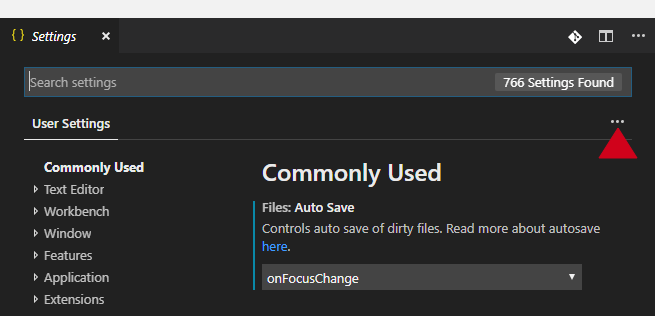
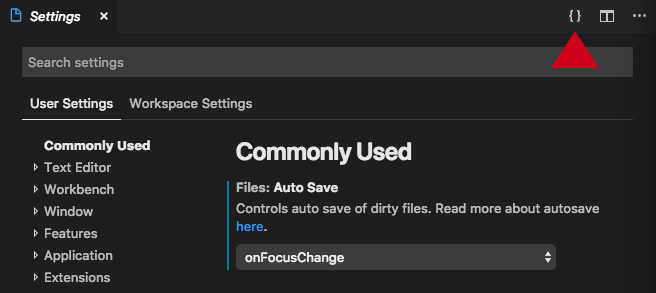
Add Prettier and some extensions + settings

diff --git a/VSCodeTips/README.md b/VSCodeTips/README.md
@@ -8,41 +8,47 @@ Download and install the appropriate version of VSCode for your operating system
 
 VSCode can be extended with _extensions_. There are three that we recommend you install from day 1.
 
-**Spell Checker**. We fully understand that you guys sometimes have difficulty with the correct English spelling when choosing names for variables and functions in your JavaScript programs. That is nothing to be ashamed of, but why not get some help from a handy extension?
+1. **Code Spell Checker**. We fully understand that you guys sometimes have difficulty with the correct English spelling when choosing names for variables and functions in your JavaScript programs. That is nothing to be ashamed of, but why not get some help from a handy extension?
 
-**ESLint**. This extension can check your JavaScript code for obvious errors, such as undefined variables, unused variables, etc.
+2. **ESLint**. This extension can check your JavaScript code for obvious errors, such as undefined variables, unused variables, etc.
 
-**Open in browser**. This extension is handy during the HYF JavaScript lessons. It allows you to quickly open an HTML file in the browser directly from VSCode.
+3. **Prettier - Code formatter**. Prettier is an code formatter that enforces a consistent style by parsing your code and re-printing it with its own rules that take the maximum line length into account, wrapping code when necessary.
+
+4. **open in browser**. This extension is handy during the HYF JavaScript lessons. It allows you to quickly open an HTML file in the browser directly from VSCode.
+
+5. **Live Server**. Launch a development local Server with live reload feature for static & dynamic pages.
+
+6) **Bracket Pair Colorizer**. An extension for colorizing matching brackets.
 
 ### Installation instructions
 
 1. Start up VSCode.
 
 2. Press the button in the area in the left margin (called the **Activity Bar**), as shown below:
-  
-    ![Extensions Icon](assets/extensions-icon.png)
 
-3. In the input field in the upper left corner, type `spell checker` as pictured here:
+   ![Extensions Icon](assets/extensions-icon.png)
 
-    ![Spell checker extension](assets/spell-checker.png)
+3. In the input field in the upper left corner, type `code spell checker` as pictured here:
+
+   ![Spell checker extension](assets/spell-checker.png)
 
 4. Press the green `install` button of **Code Spellchecker**.
 
-5. Now type `open in browser` in the Search Extensions input field and press install:
+5. Install the remaining extensions by repeating steps 3 and 4, by typing the names of the extensions:
 
-    ![Open in browser extension](assets/open-in-browser.png)
+   - ESLint
+   - Prettier - Code formatter
+   - open in browser
+   - Live Server
+   - Bracket Pair Colorizer
 
-6. When the installation has finished, install the ESLint extension in a similar fashion:
+6. When the final extension has finished installing you will notice that the green `install` button changes to a blue `reload` button. Press this button to reload VSCode and activate the newly installed extensions.
+7. You now need to install a global Node package to support ESLint. Open a terminal window in VSCode by selecting **View**, **Integrated Terminal** from the menu bar.
+8. A terminal window opens in the lower half of the VSCode window. In this window, type the command below (on Linux and MacOS systems you may need to prefix this command with `sudo`, e.g. `sudo npm ...`):
 
-    ![Figure 2. ESLint extension](assets/eslint.png)
-
-7. When this final extension has finished installing you will notice that the green `install` button changes to a blue `reload` button. Press this button to reload VSCode and activate the newly installed extensions.
-8. You now need to install a global Node package to support ESLint. Open a terminal window in VSCode by selecting **View**, **Integrated Terminal** from the menu bar.
-9. A terminal window opens in the lower half of the VSCode window. In this window, type the command below (on Linux and MacOS systems you may need to prefix this command with `sudo`, e.g. `sudo npm ...`):
-
-    ```
-    npm install -g eslint
-    ```
+   ```
+   npm install -g eslint-cli
+   ```
 
 ## Customise VSCode Settings
 
@@ -50,31 +56,35 @@ We recommend that you apply a couple of changes to the default settings of VSCod
 
 1. Press the cog-wheel icon in the lower-left corner of the VSCode screen, as indicated here:
 
-    ![settings-btn](assets/settings.png)
+   ![settings-btn](assets/settings.png)
 
-    >If you see a blue encircled number, e.g. 1, on this button this means that you have an outstanding VSCode update awaiting to be installed. VSCode currently has a monthly update cycle. It is best to install updates at your earliest convenience.
+   > If you see a blue encircled number, e.g. 1, on this button this means that you have an outstanding VSCode update awaiting to be installed. VSCode currently has a monthly update cycle. It is best to install updates at your earliest convenience.
 
 2. From the menu, select **Settings**.
 
-3. From the settings panel, with the **User Settings** tab highlighted, click on the icon with three horizontal dots, as indicated by the red triangle in the figure below.
+3. From the settings panel, with the **User Settings** tab highlighted, click on the `{ }` button, as indicated by the red triangle in the figure below.
 
-    ![settings=panel](assets/settings-panel.png)
+   ![settings=panel](assets/settings-panel.png)
 
 4. From the resulting menu, select **Open settings.json**.
 
 5. Copy the content shown below and paste it over (i.e. replace) the existing content in the `USER SETTINGS` panel in the right-hand half of the screen.
 
-    ```json
-    /// Place your settings in this file to overwrite the default settings
-    {
-      "editor.detectIndentation": false,
-      "editor.formatOnPaste": true,
-      "editor.formatOnSave": true,
-      "editor.formatOnType": true,
-      "editor.tabSize": 2,
-      "files.autoSave": "onFocusChange"
-    }
-    ```
+   ```json
+   /// Place your settings in this file to overwrite the default settings
+   {
+     "editor.detectIndentation": false,
+     "editor.formatOnSave": true,
+     "editor.formatOnType": true,
+     "editor.minimap.enabled": false,
+     "editor.renderIndentGuides": true,
+     "editor.tabSize": 2,
+     "files.autoSave": "onFocusChange",
+     "prettier.printWidth": 100,
+     "prettier.singleQuote": true,
+     "prettier.trailingComma": "all"
+   }
+   ```
 
 6. Close the Settings tabs.
 
@@ -86,12 +96,11 @@ You’ll get the most out of VSCode if you organise your work in folders, say a 
 
 To start work with VSCode in particular folder, start VSCode and open the relevant folder: from the menu, select **File**, **Open Folder**. VSCode will now open this folder to be your "project folder", until you close VSCode or open another folder.
 
->Make it a habit in VSCode to always open the **folder** that contains the project you are working on, rather than individual files in that folder.
+> Make it a habit in VSCode to always open the **folder** that contains the project you are working on, rather than individual files in that folder.
 
 In the figure below the folder named `JavaScript2` was opened in VSCode. The directory tree for that folder in shown in the **Explorer** panel. The folder name `JAVASCRIPT2` is displayed in uppercase in the title bar of the directory tree panel.
 
 ![Open folder in VSCode](./assets/open-folder.png)
-
 
 ## Creating your JavaScript file
 
@@ -100,28 +109,27 @@ You are now ready to start adding your first JavaScript file.
 1. Open the folder where you will keep your working files, for instance `hyf-javascript1`.
 2. Right-click in an empty space in the `EXPLORER` window and select **New File** from the context menu. You will see the following:
 
-    ![New file](./assets/new-file.png)
+   ![New file](./assets/new-file.png)
 
 3. Type a file name in the edit box, e.g. `app.js` and press **Enter**. This will add a file `apps.js` to your working folder and open an editor tab for the newly created file.
 
-    ![Edit file](./assets/edit-file.png)
+   ![Edit file](./assets/edit-file.png)
 
+5) Start typing your JavaScript code in the new file.
 
-5. Start typing your JavaScript code in the new file. 
+   ![Hello world](./assets/hello-world.png)
 
-    ![Hello world](./assets/hello-world.png)
-    
-6. You can also create subfolders in `EXPLORER` panel. Right-click in an empty space in the `EXPLORER` window and select **New Folder** from the context menu, for instance `week1`.
+6) You can also create subfolders in `EXPLORER` panel. Right-click in an empty space in the `EXPLORER` window and select **New Folder** from the context menu, for instance `week1`.
 
-    ![New folder](./assets/new-folder.png)
+   ![New folder](./assets/new-folder.png)
 
-7. To create a new file in the subfolder, right-click on the subfolder and type a file name in the input box.
+7) To create a new file in the subfolder, right-click on the subfolder and type a file name in the input box.
 
-    ![New file in subfolder](./assets/new-file-in-folder.png)
+   ![New file in subfolder](./assets/new-file-in-folder.png)
 
-8. Be on the watch out for coloured wavy underlines in your code. These are warnings from either ESLint or the Spell Checker that something might be wrong. If you see such wavy underlines, hover your mouse pointer over the underlined text and a tooltip will appear that explains what might be wrong.
-9. You can also open the "problem" panel by selecting **View**, **Problems** from the menu to see any problems identified.
-10. Pay attention also to the lower left part of the VSCode window, i.e. the status bar. It gives an indication of the number of errors and warnings issued. In the picture below there are zero errors, 7 warnings (usually from ESLint) and 14 informational messages (usually from the spell checker).
+8) Be on the watch out for coloured wavy underlines in your code. These are warnings from either ESLint or the Spell Checker that something might be wrong. If you see such wavy underlines, hover your mouse pointer over the underlined text and a tooltip will appear that explains what might be wrong.
+9) You can also open the "problem" panel by selecting **View**, **Problems** from the menu to see any problems identified.
+10) Pay attention also to the lower left part of the VSCode window, i.e. the status bar. It gives an indication of the number of errors and warnings issued. In the picture below there are zero errors, 7 warnings (usually from ESLint) and 14 informational messages (usually from the spell checker).
 
     ![Figure 4. Error, warning and message indicators](assets/status-bar.png)
 
@@ -131,32 +139,32 @@ In the previous section we frequently referred you to the menu bar to select com
 
 Here are some short-cut commands that you will use many times a day and that we recommend you familiarise yourself with from day 1:
 
-| Operation | Windows | Mac   | Linux |
-| --------- | ------- | ----- | ----- |
-| **Format Document** (make it pretty) | Shift‑Alt‑F | ⇧⌥F| Ctrl‑Shift‑I |
-| **Search** (Find)| Ctrl+F | ⌘F | Ctrl+F |
-| **Replace** (Find and replace) | Ctrl+H | ⌥⌘F | Ctrl+H |
-| **Rename Symbol** (change all names in file to a different name) | F2 | F2 | F2 |
-| Open an **Integrated Terminal** window in VSCode  | Ctrl+' | ⌃\` | Ctrl+' |
+| Operation                                                        | Windows     | Mac | Linux        |
+| ---------------------------------------------------------------- | ----------- | --- | ------------ |
+| **Format Document** (make it pretty)                             | Shift‑Alt‑F | ⇧⌥F | Ctrl‑Shift‑I |
+| **Search** (Find)                                                | Ctrl+F      | ⌘F  | Ctrl+F       |
+| **Replace** (Find and replace)                                   | Ctrl+H      | ⌥⌘F | Ctrl+H       |
+| **Rename Symbol** (change all names in file to a different name) | F2          | F2  | F2           |
+| Open an **Integrated Terminal** window in VSCode                 | Ctrl+'      | ⌃\` | Ctrl+'       |
 
 - **Format Document**. This command reformats your JavaScript file in a generally accepted standard format, using proper indenting, proper use of spaces, placing of curly braces and more. A neatly formatted document helps you to better understand your own code and your teachers, mentors and fellow students will love your for it too when they review your work.
 
-  *With VSCode at your finger tips there is no longer any excuse for submitting poorly formatted homework!*
+  _With VSCode at your finger tips there is no longer any excuse for submitting poorly formatted homework!_
 
 - **Search**. Search for specified text.
 - **Replace**. Replace specified text by some other text.
 
-    In the figure below the **Replace** pop-up window is shown. The **Search** pop-up is similar, but with one input field only.
+  In the figure below the **Replace** pop-up window is shown. The **Search** pop-up is similar, but with one input field only.
 
-    ![Figure 5. Search and Replace](assets/search-and-replace.png)
+  ![Figure 5. Search and Replace](assets/search-and-replace.png)
 
-    - The `Aa` button activates the **Match Case** option.
-    - The `Ab|` button matches **Whole Words Only**.
-    - The `.*` button allow you to search using _regular expressions_, which you may encounter in later modules as an advanced JavaScript programming topic.
-    - The `c-b` button next to the second input field replaces the next occurrence of the matched text.
-    - The `ab-ac` button replaces **all** occurrences of the matched text.
-   - The left and right arrows move the cursor to the previous and next match.
-    - To get rid of the pop-up press `Esc` or press the `x` button.
+  - The `Aa` button activates the **Match Case** option.
+  - The `Ab|` button matches **Whole Words Only**.
+  - The `.*` button allow you to search using _regular expressions_, which you may encounter in later modules as an advanced JavaScript programming topic.
+  - The `c-b` button next to the second input field replaces the next occurrence of the matched text.
+  - The `ab-ac` button replaces **all** occurrences of the matched text.
+  - The left and right arrows move the cursor to the previous and next match.
+  - To get rid of the pop-up press `Esc` or press the `x` button.
 
 - **Rename Symbol**. This command renames all occurrences of a JavaScript variable or function name. To do so, move the text cursor to the variable or function name and press F2. A small pop-up window will appear in which you can type a new name. Press Enter to finalise the change or Esc to cancel it.
 
@@ -170,7 +178,7 @@ If your JavaScript program is contained in a single file the easiest way to run 
 
 2. You will prompted to select an environment. Choose `Node.js` as show below.
 
-    ![debug_3](assets/node-debug.png)
+   ![debug_3](assets/node-debug.png)
 
 This starts your program in the VSCode debugger.
 
@@ -180,6 +188,6 @@ This is covered in class.
 
 ### Further information
 
-Please note that VSCode is actively being developed. At present there is a monthly release cycle, so don't be surprised when you are prompted once a month to update to the latest version.  We advise you to update when prompted (naturally, not when you are in the middle something that you don't want interrupted).
+Please note that VSCode is actively being developed. At present there is a monthly release cycle, so don't be surprised when you are prompted once a month to update to the latest version. We advise you to update when prompted (naturally, not when you are in the middle something that you don't want interrupted).
 
 You can find detailed information about VSCode at the [VSCode web site](https://code.visualstudio.com/docs).
